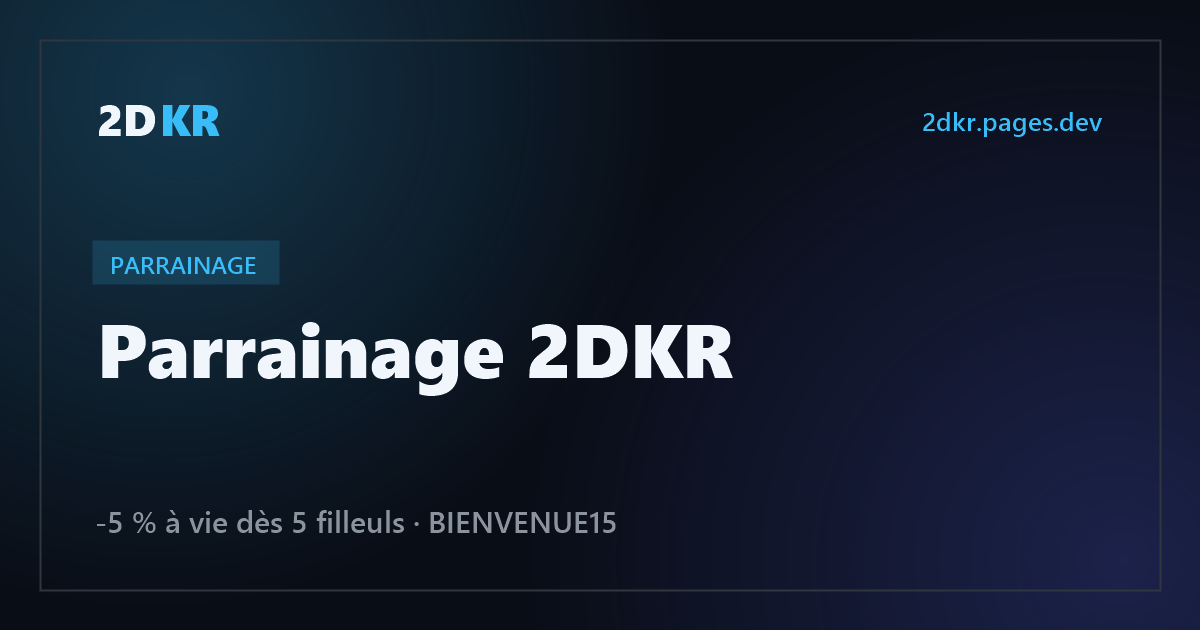
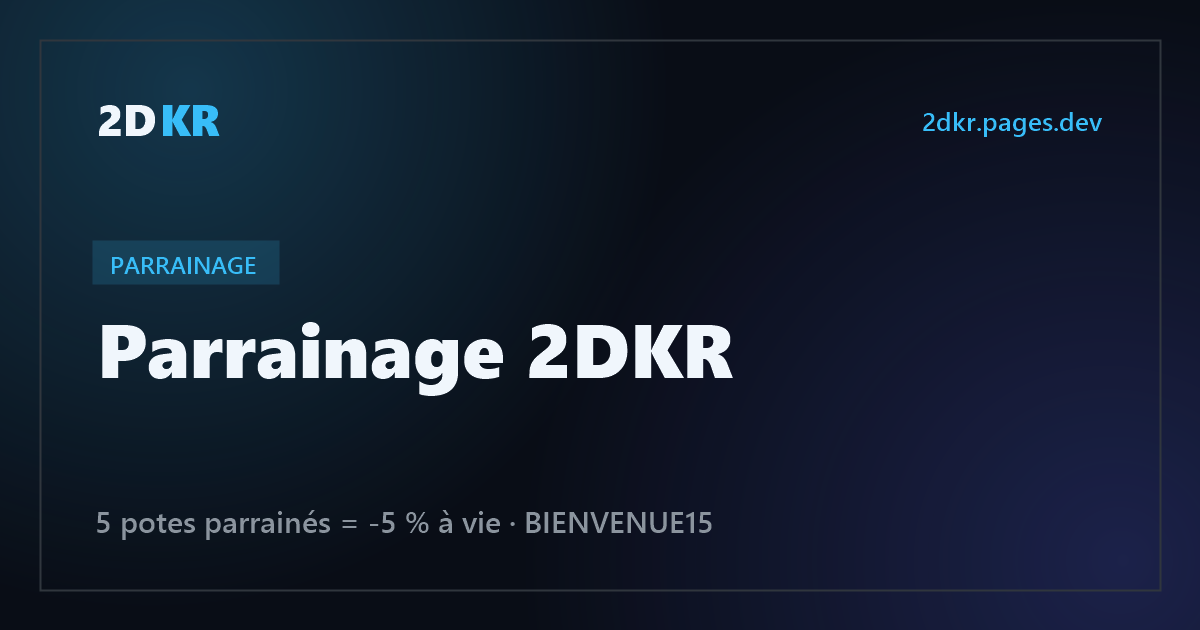
Parrainage : « filleuls » remplacé par « potes parrainés » (page, panier, recherche, aperçu Discord)

Changed region(s): [[0.0617, 0.8143, 0.6167, 0.8444]]

diff --git a/parrainage.html b/parrainage.html
@@ -6,10 +6,10 @@
   <title>2DKR — Parrainage</title>
   
   <meta property="og:title" content="2DKR — Parrainage">
-  <meta property="og:description" content="Parrainage 2DKR : ramène 5 potes et gagne -5 % à vie sur toutes tes commandes. Tes filleuls ont -5 % sur leur 1re commande.">
+  <meta property="og:description" content="Parrainage 2DKR : ramène 5 potes et gagne -5 % à vie sur toutes tes commandes. Tes potes ont -5 % sur leur 1re commande.">
   <meta property="og:type" content="website">
   <meta name="theme-color" content="#38bdf8">
-  <meta name="description" content="Programme de parrainage 2DKR : -5 % à vie pour le parrain dès 5 filleuls, -5 % sur la 1re commande pour chaque filleul, et code BIENVENUE15 pour les nouveaux clients.">
+  <meta name="description" content="Programme de parrainage 2DKR : -5 % à vie dès 5 potes parrainés, -5 % sur la 1re commande de chaque pote parrainé, et code BIENVENUE15 pour les nouveaux clients.">
   <link rel="canonical" href="https://2dkr.pages.dev/parrainage">
   <meta property="og:url" content="https://2dkr.pages.dev/parrainage">
   <meta property="og:site_name" content="2DKR">
@@ -787,13 +787,13 @@
     <div class="lobby-gets">
       <div class="lobby-get">
         <i class="fa-solid fa-user-group" aria-hidden="true"></i>
-        <strong>5 filleuls</strong>
-        <small>à ramener</small>
+        <strong>5 potes</strong>
+        <small>à parrainer</small>
       </div>
       <div class="lobby-get">
         <i class="fa-solid fa-cart-shopping" aria-hidden="true"></i>
         <strong>15 € minimum</strong>
-        <small>dépensés par chaque filleul</small>
+        <small>dépensés par chaque pote</small>
       </div>
       <div class="lobby-get lobby-get-ok">
         <i class="fa-solid fa-infinity" aria-hidden="true"></i>
@@ -817,7 +817,7 @@
       <div class="fees-card">
         <i class="fa-solid fa-trophy" aria-hidden="true"></i>
         <h3><span class="step-n">3.</span> Profite</h3>
-        <p>À 5 filleuls (15 € dépensés chacun), entre ton propre code : <strong>-5 % sur toutes tes commandes, à vie</strong>.</p>
+        <p>À 5 potes parrainés (15 € dépensés chacun), entre ton propre code : <strong>-5 % sur toutes tes commandes, à vie</strong>.</p>
       </div>
     </div>
 
@@ -834,8 +834,8 @@
     <div class="guar-excl">
       <ul>
         <li><i class="fa-solid fa-circle-info" aria-hidden="true"></i> <span>Un seul code par commande (bienvenue ou parrain, pas les deux).</span></li>
-        <li><i class="fa-solid fa-circle-info" aria-hidden="true"></i> <span>Un filleul compte seulement s'il a dépensé au moins 15 € dans la boutique.</span></li>
-        <li><i class="fa-solid fa-circle-info" aria-hidden="true"></i> <span>Chaque commande est vérifiée dans ton ticket (1re commande, filleuls validés).</span></li>
+        <li><i class="fa-solid fa-circle-info" aria-hidden="true"></i> <span>Un pote parrainé compte seulement s'il a dépensé au moins 15 € dans la boutique.</span></li>
+        <li><i class="fa-solid fa-circle-info" aria-hidden="true"></i> <span>Chaque commande est vérifiée dans ton ticket (1re commande, potes parrainés validés).</span></li>
         <li><i class="fa-solid fa-circle-info" aria-hidden="true"></i> <span>Ton -5 % parrain s'ajoute aux promos en cours.</span></li>
       </ul>
     </div>
@@ -952,7 +952,7 @@
       { t: 'Paiements & garanties', s: 'PayPal, crypto, virement et frais', u: 'paiements.html', p: 'Paiements', k: 'paiement paiements frais commission paypal crypto solana virement banque carte argent' },
       { t: 'Garanties', s: 'Garantie anti-ban : remboursé si ban sous 7 jours', u: 'paiements.html#garanties', p: 'Paiements', k: 'garantie garanties ban banni rembourse remboursement securite conditions' },
       { t: 'Lobby découverte gratuit', s: '6M, niveau 50, 3 véhicules et 3 tenues moddés', u: 'lobby.html', p: 'Lobby', k: 'lobby gratuit free decouverte essai test offert' },
-      { t: 'Parrainage', s: '-5 % à vie dès 5 filleuls, -5 % pour tes filleuls', u: 'parrainage.html', p: 'Parrainage', k: 'parrainage parrain filleul code promo reduction bienvenue bienvenue15 remise' },
+      { t: 'Parrainage', s: '5 potes parrainés = -5 % à vie, et -5 % pour tes potes', u: 'parrainage.html', p: 'Parrainage', k: 'parrainage parrain filleul code promo reduction bienvenue bienvenue15 remise' },
       { t: 'Instant Gaming', s: 'Achète tes jeux via mon lien et soutiens 2DKR', u: 'https://www.instant-gaming.com/fr/?igr=Bydekur', p: 'Accueil', k: 'instant gaming jeu jeux cle key steam pc soutien affilie acheter' },
       { t: 'Pack Bronze', s: 'Pack d\'entrée lobby moddé', u: 'services.html', p: 'Services', k: 'pack bronze tarif prix lobby gta' },
       { t: 'Pack Argent', s: 'Pack intermédiaire', u: 'services.html', p: 'Services', k: 'pack argent silver tarif prix lobby' },

diff --git a/index.html b/index.html
@@ -969,7 +969,7 @@
       <button type="button" class="changelog-close" aria-label="Fermer"><i class="fa-solid fa-xmark"></i></button>
     </div>
     <ul>
-      <li><strong>Parrainage</strong> : ramène 5 potes (15 € dépensés chacun) et gagne -5 % à vie sur toutes tes commandes, même en promo. Tes filleuls ont -5 % sur leur 1re commande.</li>
+      <li><strong>Parrainage</strong> : ramène 5 potes (15 € dépensés chacun) et gagne -5 % à vie sur toutes tes commandes, même en promo. Tes potes ont -5 % sur leur 1re commande.</li>
       <li><strong>Codes promo</strong> : un champ « Code promo ou parrain » dans le panier et le calculateur, avec la réduction calculée en direct et ajoutée au récap.</li>
       <li><strong>Code BIENVENUE15</strong> : -15 % sur ton 1er achat dès 15 €.</li>
       <li><strong>Recherche réparée</strong> : <strong>Ctrl + K</strong> ou <strong>/</strong> ouvrent bien la recherche du site (avant, le navigateur lançait une recherche Google). Le bouton de recherche sur téléphone remarche aussi.</li>
@@ -1201,7 +1201,7 @@
       { t: 'Paiements & garanties', s: 'PayPal, crypto, virement et frais', u: 'paiements.html', p: 'Paiements', k: 'paiement paiements frais commission paypal crypto solana virement banque carte argent' },
       { t: 'Garanties', s: 'Garantie anti-ban : remboursé si ban sous 7 jours', u: 'paiements.html#garanties', p: 'Paiements', k: 'garantie garanties ban banni rembourse remboursement securite conditions' },
       { t: 'Lobby découverte gratuit', s: '6M, niveau 50, 3 véhicules et 3 tenues moddés', u: 'lobby.html', p: 'Lobby', k: 'lobby gratuit free decouverte essai test offert' },
-      { t: 'Parrainage', s: '-5 % à vie dès 5 filleuls, -5 % pour tes filleuls', u: 'parrainage.html', p: 'Parrainage', k: 'parrainage parrain filleul code promo reduction bienvenue bienvenue15 remise' },
+      { t: 'Parrainage', s: '5 potes parrainés = -5 % à vie, et -5 % pour tes potes', u: 'parrainage.html', p: 'Parrainage', k: 'parrainage parrain filleul code promo reduction bienvenue bienvenue15 remise' },
       { t: 'Instant Gaming', s: 'Achète tes jeux via mon lien et soutiens 2DKR', u: 'https://www.instant-gaming.com/fr/?igr=Bydekur', p: 'Accueil', k: 'instant gaming jeu jeux cle key steam pc soutien affilie acheter' },
       { t: 'Pack Bronze', s: 'Pack d\'entrée lobby moddé', u: 'services.html', p: 'Services', k: 'pack bronze tarif prix lobby gta' },
       { t: 'Pack Argent', s: 'Pack intermédiaire', u: 'services.html', p: 'Services', k: 'pack argent silver tarif prix lobby' },

diff --git a/avis.html b/avis.html
@@ -870,7 +870,7 @@ Pour menu ou lobby 10/10 parfait"</p>
       { t: 'Paiements & garanties', s: 'PayPal, crypto, virement et frais', u: 'paiements.html', p: 'Paiements', k: 'paiement paiements frais commission paypal crypto solana virement banque carte argent' },
       { t: 'Garanties', s: 'Garantie anti-ban : remboursé si ban sous 7 jours', u: 'paiements.html#garanties', p: 'Paiements', k: 'garantie garanties ban banni rembourse remboursement securite conditions' },
       { t: 'Lobby découverte gratuit', s: '6M, niveau 50, 3 véhicules et 3 tenues moddés', u: 'lobby.html', p: 'Lobby', k: 'lobby gratuit free decouverte essai test offert' },
-      { t: 'Parrainage', s: '-5 % à vie dès 5 filleuls, -5 % pour tes filleuls', u: 'parrainage.html', p: 'Parrainage', k: 'parrainage parrain filleul code promo reduction bienvenue bienvenue15 remise' },
+      { t: 'Parrainage', s: '5 potes parrainés = -5 % à vie, et -5 % pour tes potes', u: 'parrainage.html', p: 'Parrainage', k: 'parrainage parrain filleul code promo reduction bienvenue bienvenue15 remise' },
       { t: 'Instant Gaming', s: 'Achète tes jeux via mon lien et soutiens 2DKR', u: 'https://www.instant-gaming.com/fr/?igr=Bydekur', p: 'Accueil', k: 'instant gaming jeu jeux cle key steam pc soutien affilie acheter' },
       { t: 'Pack Bronze', s: 'Pack d\'entrée lobby moddé', u: 'services.html', p: 'Services', k: 'pack bronze tarif prix lobby gta' },
       { t: 'Pack Argent', s: 'Pack intermédiaire', u: 'services.html', p: 'Services', k: 'pack argent silver tarif prix lobby' },

diff --git a/calculateur.html b/calculateur.html
@@ -1009,7 +1009,7 @@
       { t: 'Paiements & garanties', s: 'PayPal, crypto, virement et frais', u: 'paiements.html', p: 'Paiements', k: 'paiement paiements frais commission paypal crypto solana virement banque carte argent' },
       { t: 'Garanties', s: 'Garantie anti-ban : remboursé si ban sous 7 jours', u: 'paiements.html#garanties', p: 'Paiements', k: 'garantie garanties ban banni rembourse remboursement securite conditions' },
       { t: 'Lobby découverte gratuit', s: '6M, niveau 50, 3 véhicules et 3 tenues moddés', u: 'lobby.html', p: 'Lobby', k: 'lobby gratuit free decouverte essai test offert' },
-      { t: 'Parrainage', s: '-5 % à vie dès 5 filleuls, -5 % pour tes filleuls', u: 'parrainage.html', p: 'Parrainage', k: 'parrainage parrain filleul code promo reduction bienvenue bienvenue15 remise' },
+      { t: 'Parrainage', s: '5 potes parrainés = -5 % à vie, et -5 % pour tes potes', u: 'parrainage.html', p: 'Parrainage', k: 'parrainage parrain filleul code promo reduction bienvenue bienvenue15 remise' },
       { t: 'Instant Gaming', s: 'Achète tes jeux via mon lien et soutiens 2DKR', u: 'https://www.instant-gaming.com/fr/?igr=Bydekur', p: 'Accueil', k: 'instant gaming jeu jeux cle key steam pc soutien affilie acheter' },
       { t: 'Pack Bronze', s: 'Pack d\'entrée lobby moddé', u: 'services.html', p: 'Services', k: 'pack bronze tarif prix lobby gta' },
       { t: 'Pack Argent', s: 'Pack intermédiaire', u: 'services.html', p: 'Services', k: 'pack argent silver tarif prix lobby' },

diff --git a/paiements.html b/paiements.html
@@ -1071,7 +1071,7 @@
       { t: 'Paiements & garanties', s: 'PayPal, crypto, virement et frais', u: 'paiements.html', p: 'Paiements', k: 'paiement paiements frais commission paypal crypto solana virement banque carte argent' },
       { t: 'Garanties', s: 'Garantie anti-ban : remboursé si ban sous 7 jours', u: 'paiements.html#garanties', p: 'Paiements', k: 'garantie garanties ban banni rembourse remboursement securite conditions' },
       { t: 'Lobby découverte gratuit', s: '6M, niveau 50, 3 véhicules et 3 tenues moddés', u: 'lobby.html', p: 'Lobby', k: 'lobby gratuit free decouverte essai test offert' },
-      { t: 'Parrainage', s: '-5 % à vie dès 5 filleuls, -5 % pour tes filleuls', u: 'parrainage.html', p: 'Parrainage', k: 'parrainage parrain filleul code promo reduction bienvenue bienvenue15 remise' },
+      { t: 'Parrainage', s: '5 potes parrainés = -5 % à vie, et -5 % pour tes potes', u: 'parrainage.html', p: 'Parrainage', k: 'parrainage parrain filleul code promo reduction bienvenue bienvenue15 remise' },
       { t: 'Instant Gaming', s: 'Achète tes jeux via mon lien et soutiens 2DKR', u: 'https://www.instant-gaming.com/fr/?igr=Bydekur', p: 'Accueil', k: 'instant gaming jeu jeux cle key steam pc soutien affilie acheter' },
       { t: 'Pack Bronze', s: 'Pack d\'entrée lobby moddé', u: 'services.html', p: 'Services', k: 'pack bronze tarif prix lobby gta' },
       { t: 'Pack Argent', s: 'Pack intermédiaire', u: 'services.html', p: 'Services', k: 'pack argent silver tarif prix lobby' },

diff --git a/services.html b/services.html
@@ -1249,7 +1249,7 @@
       { t: 'Paiements & garanties', s: 'PayPal, crypto, virement et frais', u: 'paiements.html', p: 'Paiements', k: 'paiement paiements frais commission paypal crypto solana virement banque carte argent' },
       { t: 'Garanties', s: 'Garantie anti-ban : remboursé si ban sous 7 jours', u: 'paiements.html#garanties', p: 'Paiements', k: 'garantie garanties ban banni rembourse remboursement securite conditions' },
       { t: 'Lobby découverte gratuit', s: '6M, niveau 50, 3 véhicules et 3 tenues moddés', u: 'lobby.html', p: 'Lobby', k: 'lobby gratuit free decouverte essai test offert' },
-      { t: 'Parrainage', s: '-5 % à vie dès 5 filleuls, -5 % pour tes filleuls', u: 'parrainage.html', p: 'Parrainage', k: 'parrainage parrain filleul code promo reduction bienvenue bienvenue15 remise' },
+      { t: 'Parrainage', s: '5 potes parrainés = -5 % à vie, et -5 % pour tes potes', u: 'parrainage.html', p: 'Parrainage', k: 'parrainage parrain filleul code promo reduction bienvenue bienvenue15 remise' },
       { t: 'Instant Gaming', s: 'Achète tes jeux via mon lien et soutiens 2DKR', u: 'https://www.instant-gaming.com/fr/?igr=Bydekur', p: 'Accueil', k: 'instant gaming jeu jeux cle key steam pc soutien affilie acheter' },
       { t: 'Pack Bronze', s: 'Pack d\'entrée lobby moddé', u: 'services.html', p: 'Services', k: 'pack bronze tarif prix lobby gta' },
       { t: 'Pack Argent', s: 'Pack intermédiaire', u: 'services.html', p: 'Services', k: 'pack argent silver tarif prix lobby' },

diff --git a/lobby.html b/lobby.html
@@ -945,7 +945,7 @@
       { t: 'Paiements & garanties', s: 'PayPal, crypto, virement et frais', u: 'paiements.html', p: 'Paiements', k: 'paiement paiements frais commission paypal crypto solana virement banque carte argent' },
       { t: 'Garanties', s: 'Garantie anti-ban : remboursé si ban sous 7 jours', u: 'paiements.html#garanties', p: 'Paiements', k: 'garantie garanties ban banni rembourse remboursement securite conditions' },
       { t: 'Lobby découverte gratuit', s: '6M, niveau 50, 3 véhicules et 3 tenues moddés', u: 'lobby.html', p: 'Lobby', k: 'lobby gratuit free decouverte essai test offert' },
-      { t: 'Parrainage', s: '-5 % à vie dès 5 filleuls, -5 % pour tes filleuls', u: 'parrainage.html', p: 'Parrainage', k: 'parrainage parrain filleul code promo reduction bienvenue bienvenue15 remise' },
+      { t: 'Parrainage', s: '5 potes parrainés = -5 % à vie, et -5 % pour tes potes', u: 'parrainage.html', p: 'Parrainage', k: 'parrainage parrain filleul code promo reduction bienvenue bienvenue15 remise' },
       { t: 'Instant Gaming', s: 'Achète tes jeux via mon lien et soutiens 2DKR', u: 'https://www.instant-gaming.com/fr/?igr=Bydekur', p: 'Accueil', k: 'instant gaming jeu jeux cle key steam pc soutien affilie acheter' },
       { t: 'Pack Bronze', s: 'Pack d\'entrée lobby moddé', u: 'services.html', p: 'Services', k: 'pack bronze tarif prix lobby gta' },
       { t: 'Pack Argent', s: 'Pack intermédiaire', u: 'services.html', p: 'Services', k: 'pack argent silver tarif prix lobby' },

diff --git a/assets/panier.js b/assets/panier.js
@@ -136,7 +136,7 @@
       return 'Code parrain de ' + c.nom + ' : -' + c.reduction + ' % sur ta 1re commande.' +
         (c.filleuls >= p.filleulsRequis
           ? ' ' + c.nom + ' a l\'avantage parrain à vie.'
-          : ' (' + c.nom + ' : ' + c.filleuls + '/' + p.filleulsRequis + ' filleuls)');
+          : ' (' + c.nom + ' : ' + c.filleuls + '/' + p.filleulsRequis + ' potes parrainés)');
     },
     ajouter: function (id) {
       var item = trouver(id);
